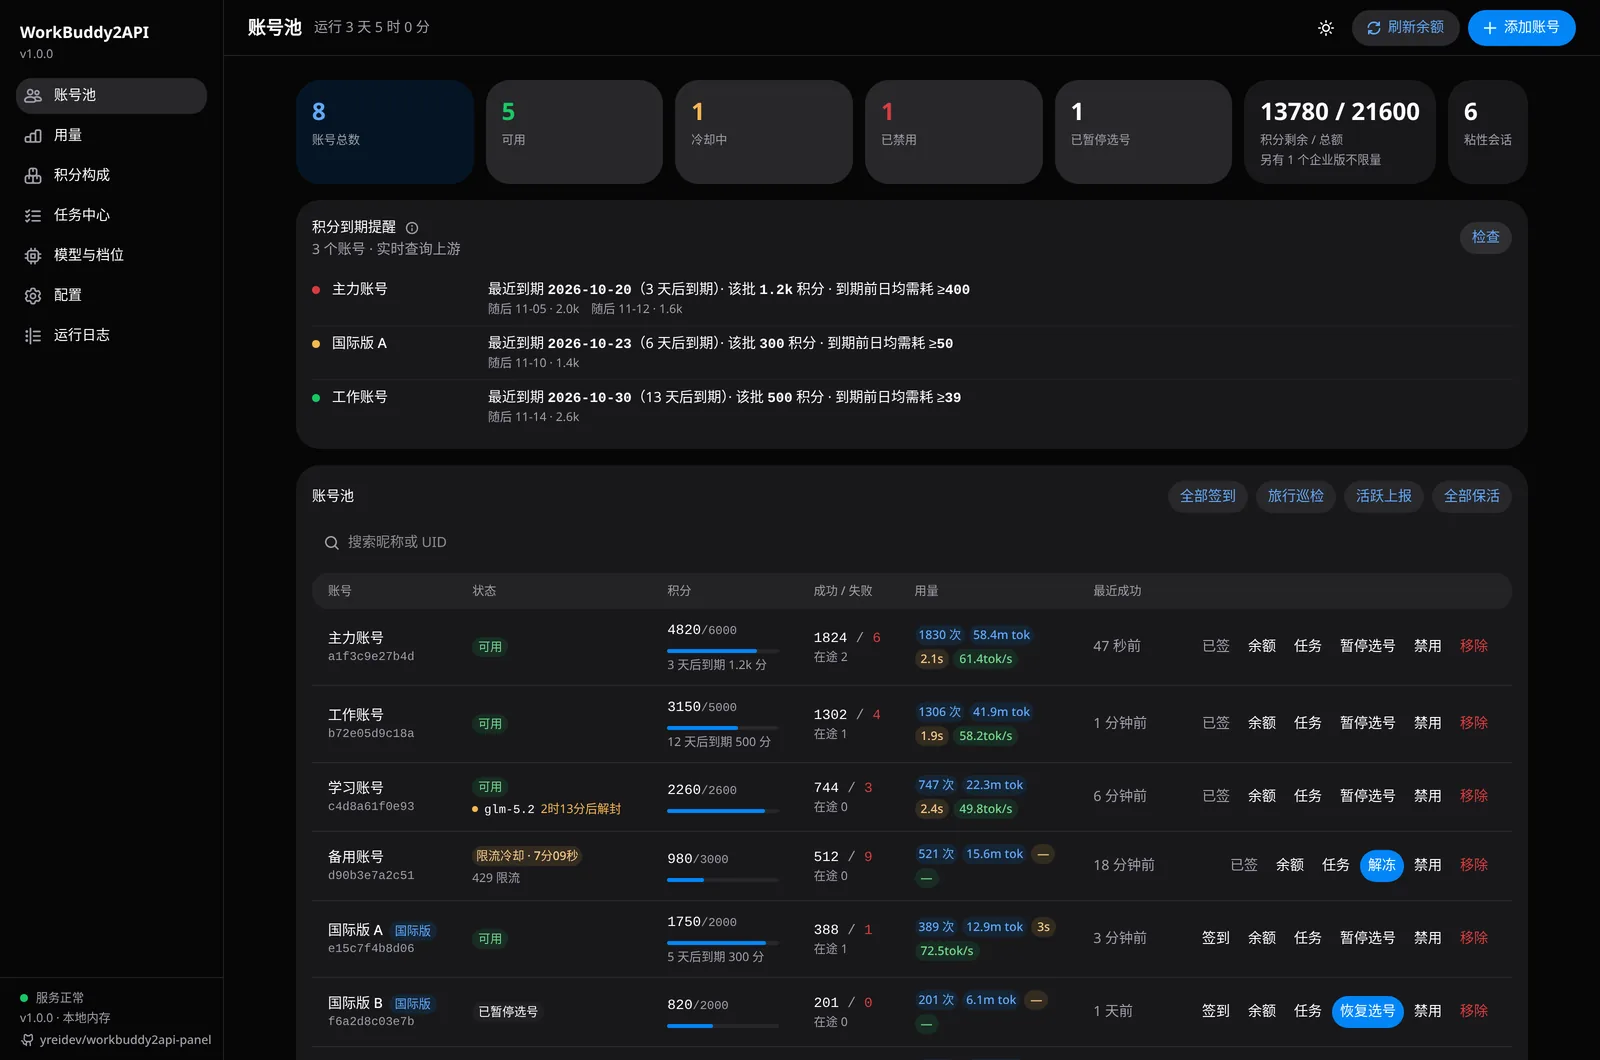
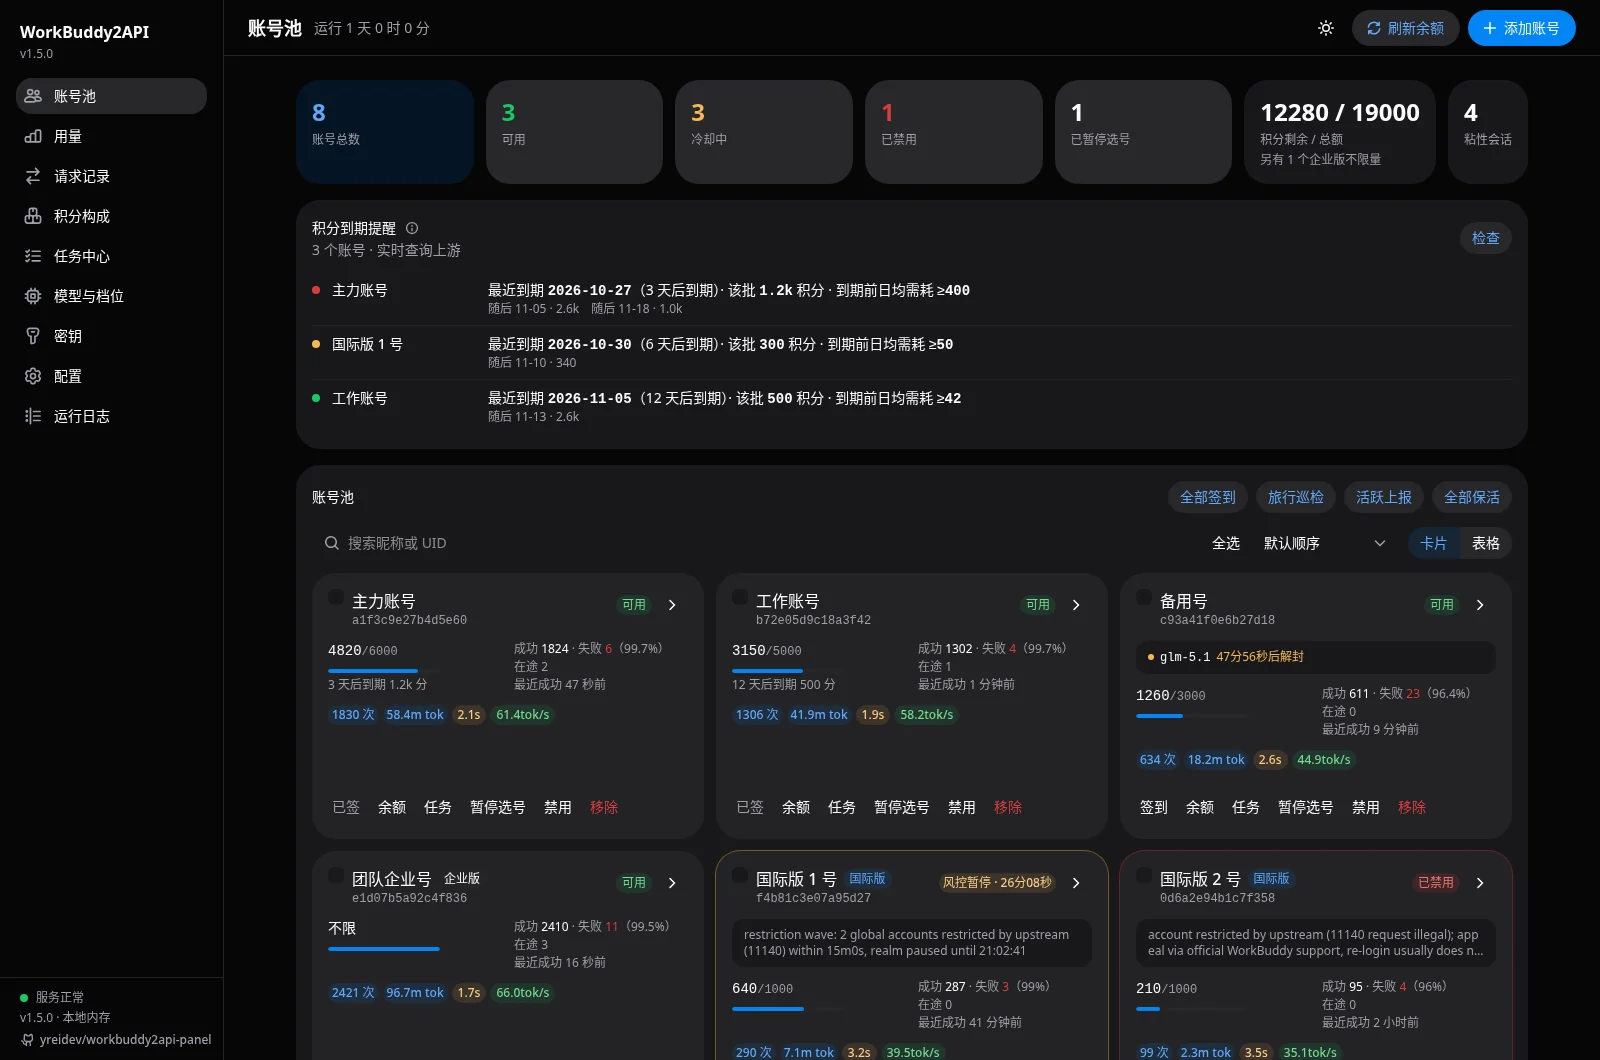
feat(panel): 账号池宽屏默认显示卡片，可切回表格
账号多的时候表格一行塞太多列，状态和冷却原因不好扫。卡片放得下几列就排几列（每张至少 340px），冷却中的卡片描橙边、禁用的描红边，冷却原因和被限额的模型单独列出，右上角箭头看详情。卡片网格的排法参考 CLI Proxy API 管理面板的认证文件卡片。

搜索框那一行可以在「卡片 / 表格」之间切换，选了哪种记在本浏览器；卡片没有表头，用下拉排序（积分、失败数、最近成功、名称），手机端也能排了；卡片模式另有「全选」。首页和文档的账号池截图按卡片重拍，用的是假数据。

diff --git a/web/src/pages/accounts/AccountsPage.tsx b/web/src/pages/accounts/AccountsPage.tsx
@@ -2,20 +2,24 @@
 // SPDX-License-Identifier: AGPL-3.0-only
 // 复制或改写本文件须保留以上声明，并按 NOTICE 的署名条款注明出处：https://github.com/yreidev/workbuddy2api-panel
 
-// 账号池：统计（点一下按状态筛选）+ 积分到期提醒 + 搜索 + 账号表（可排序，点行看详情，可多选导出凭证）+ 批量任务 + 模型锁池。窄屏把表格换成卡片列表。
+// 账号池：统计（点一下按状态筛选）+ 积分到期提醒 + 搜索 + 账号卡片或账号表（可排序，可多选导出凭证）+ 批量任务 + 模型锁池。
+// 宽屏默认卡片网格，可切换成表格（记在本浏览器）；窄屏只有卡片。
 import { useMemo, useState } from 'react'
 import {
-  Button, Card, Checkbox, SearchField, Table, ToggleButton, ToggleButtonGroup, useMediaQuery, type Selection, type SortDescriptor,
+  Button, Card, Checkbox, Label, ListBox, SearchField, Select, Table, ToggleButton, ToggleButtonGroup, useMediaQuery, type Selection, type SortDescriptor,
 } from '@heroui/react'
-import { accountHealth, filterAccounts, poolCredits, sortAccounts, type AccountSortKey, type StatusFilter } from '../../lib/accounts'
+import {
+  accountHealth, CARD_SORT_OPTIONS, cardSortKey, filterAccounts, parseCardSort, poolCredits, sortAccounts, type AccountSortKey, type StatusFilter,
+} from '../../lib/accounts'
 import { post } from '../../lib/api'
 import { ago } from '../../lib/format'
-import { toastError, useNow, useStartedToast } from '../../lib/hooks'
+import { toastError, useNow, useStartedToast, useStoredChoice } from '../../lib/hooks'
 import { useOverview } from '../../lib/queries'
 import type { Account, Overview } from '../../lib/types'
 import { Empty, Loaded } from '../../components/Feedback'
 import { Panel, Stat } from '../../components/Panel'
 import { AccountButtons } from './AccountButtons'
+import { AccountCard } from './AccountCard'
 import { AccountName, CreditsCell, StatusCell, UsageChips } from './AccountCells'
 import { AccountDrawer } from './AccountDrawer'
 import { ExpiryReminder } from './ExpiryReminder'
@@ -33,6 +37,8 @@ export function AccountsPage() {
   )
 }
 
+const VIEWS = ['cards', 'table'] as const
+
 const BATCH: { path: string; label: string; done: string }[] = [
   { path: 'checkin_all', label: '全部签到', done: '全部签到已开始' },
   { path: 'travel_all', label: '旅行巡检', done: '旅行巡检已开始（含领养链路）' },
@@ -46,6 +52,9 @@ function Accounts({ data, fetchedAt }: { data: Overview; fetchedAt: number }) {
   const [status, setStatus] = useState<StatusFilter>('all')
   const [q, setQ] = useState('')
   const [sort, setSort] = useState<SortDescriptor | undefined>()
+  const [view, setView] = useStoredChoice('wb2api.accountsView', VIEWS, 'cards')
+  // 表格最小宽 1140px，窄屏放不下，只给卡片
+  const cards = !isDesktop || view === 'cards'
   const [detail, setDetail] = useState<string | null>(null)
   const [tasksOf, setTasksOf] = useState<string | null>(null)
   const { busy, run, confirmEl } = useAccountActions(setTasksOf)
@@ -125,11 +134,10 @@ function Accounts({ data, fetchedAt }: { data: Overview; fetchedAt: number }) {
               <SearchField.ClearButton />
             </SearchField.Group>
           </SearchField>
-          {isDesktop ? (
-            selected.length > 0 && <div className="flex items-center gap-3"><ExportActions selected={selected} onClear={clearSelection} /></div>
-          ) : (
-            // 窄屏卡片没有表头复选框，在这里给「全选」
-            rows.length > 0 && (
+          <div className="flex flex-wrap items-center gap-3">
+            {isDesktop && selected.length > 0 && <ExportActions selected={selected} onClear={clearSelection} />}
+            {/* 卡片没有表头复选框和可点的表头，在这里给「全选」和排序 */}
+            {cards && rows.length > 0 && (
               <SelectionCheckbox
                 label="全选"
                 isSelected={selected.length === rows.length}
@@ -138,44 +146,59 @@ function Accounts({ data, fetchedAt }: { data: Overview; fetchedAt: number }) {
               >
                 <span className="text-sm">全选</span>
               </SelectionCheckbox>
-            )
-          )}
+            )}
+            {cards && (
+              <Select aria-label="排序" value={cardSortKey(sort)} onChange={(k) => k != null && setSort(parseCardSort(String(k)))} className="w-36">
+                <Label className="sr-only">排序</Label>
+                <Select.Trigger><Select.Value /><Select.Indicator /></Select.Trigger>
+                <Select.Popover>
+                  <ListBox>
+                    {CARD_SORT_OPTIONS.map((o) => <ListBox.Item key={o.id} id={o.id} textValue={o.label}>{o.label}<ListBox.ItemIndicator /></ListBox.Item>)}
+                  </ListBox>
+                </Select.Popover>
+              </Select>
+            )}
+            {isDesktop && (
+              <ToggleButtonGroup
+                aria-label="显示方式"
+                size="sm"
+                selectionMode="single"
+                disallowEmptySelection
+                selectedKeys={[view]}
+                onSelectionChange={(keys) => { const k = [...keys][0]; if (k === 'cards' || k === 'table') setView(k) }}
+              >
+                <ToggleButton id="cards">卡片</ToggleButton>
+                <ToggleButton id="table">表格</ToggleButton>
+              </ToggleButtonGroup>
+            )}
+          </div>
         </div>
         {accounts.length === 0 ? (
           <Empty title="账号池是空的">点击右上角「添加账号」，用浏览器登录一个 WorkBuddy 账号。</Empty>
         ) : rows.length === 0 ? (
           <Empty title="没有符合条件的账号" action={<Button size="sm" variant="secondary" onPress={() => { setQ(''); setStatus('all') }}>清除筛选</Button>} />
-        ) : isDesktop ? (
+        ) : !cards ? (
           <AccountTable rows={rows} fetchedAt={fetchedAt} now={now} poolMax={poolMax} sort={sort} onSort={setSort} selection={selection} onSelect={setSelection} busy={busy} run={run} onOpen={setDetail} />
         ) : (
-          <div className="flex flex-col gap-3">
-            {rows.map((a) => {
-              const health = accountHealth(a, fetchedAt)
-              return (
-                <Card key={a.uid} variant="secondary" className="gap-3 p-4">
-                  <div className="flex items-start justify-between gap-2">
-                    <div className="flex min-w-0 items-start gap-2">
-                      <SelectionCheckbox label={'选择 ' + (a.nickname || a.uid)} isSelected={selected.includes(a.uid)} onChange={(v) => toggle(a.uid, v)} />
-                      <AccountName a={a} />
-                    </div>
-                    <Button size="sm" variant="tertiary" onPress={() => setDetail(a.uid)}>详情</Button>
-                  </div>
-                  <StatusCell a={a} health={health} now={now} />
-                  <div className="grid grid-cols-2 gap-3 text-sm">
-                    <CreditsCell a={a} poolMax={poolMax} now={now} />
-                    <div className="flex flex-col gap-0.5 text-xs text-muted">
-                      <span>成功 {a.success_count || 0} · 失败 <span className="text-danger">{a.err_total || 0}</span></span>
-                      <span>在途 {a.in_flight || 0}</span>
-                      <span>最近成功 {ago(a.last_success, now)}</span>
-                    </div>
-                  </div>
-                  <UsageChips a={a} />
-                  <AccountButtons a={a} health={health} busy={busy} run={run} />
-                </Card>
-              )
-            })}
-            {selected.length > 0 && (
-              <Card className="sticky bottom-3 z-30 flex-row flex-wrap items-center gap-3 p-3 shadow-lg">
+          // 卡片至少 340px 宽，放得下几列就排几列
+          <div className="grid gap-3 [grid-template-columns:repeat(auto-fill,minmax(min(100%,340px),1fr))]">
+            {rows.map((a) => (
+              <AccountCard
+                key={a.uid}
+                a={a}
+                health={accountHealth(a, fetchedAt)}
+                now={now}
+                poolMax={poolMax}
+                selected={selected.includes(a.uid)}
+                onSelect={(v) => toggle(a.uid, v)}
+                onOpen={() => setDetail(a.uid)}
+                busy={busy}
+                run={run}
+              />
+            ))}
+            {/* 宽屏的导出按钮在搜索框那一行，窄屏滚动时贴在底部 */}
+            {!isDesktop && selected.length > 0 && (
+              <Card className="sticky bottom-3 z-30 col-span-full flex-row flex-wrap items-center gap-3 p-3 shadow-lg">
                 <ExportActions selected={selected} onClear={clearSelection} />
               </Card>
             )}

diff --git a/web/src/pages/accounts/AccountCard.tsx b/web/src/pages/accounts/AccountCard.tsx
@@ -1,0 +1,82 @@
+// SPDX-FileCopyrightText: 2026 yreidev 与贡献者（见 NOTICE）
+// SPDX-License-Identifier: AGPL-3.0-only
+// 复制或改写本文件须保留以上声明，并按 NOTICE 的署名条款注明出处：https://github.com/yreidev/workbuddy2api-panel
+
+// 账号卡片：宽屏的卡片网格和窄屏列表共用。边框按状态着色（冷却橙、禁用红），右上角箭头看详情。
+import { ChevronRight } from '@gravity-ui/icons'
+import { Button, Card, Separator, Surface } from '@heroui/react'
+import { activeRateLimits, type Health } from '../../lib/accounts'
+import { ago } from '../../lib/format'
+import type { Account } from '../../lib/types'
+import { AccountButtons } from './AccountButtons'
+import { AccountName, CreditsCell, HealthChip, RateLimitList, UsageChips } from './AccountCells'
+import { SelectionCheckbox } from './ExportBar'
+import type { AccountAction } from './useAccountActions'
+
+const RING: Record<Health['state'], string> = {
+  ok: '',
+  cooling: 'ring-1 ring-warning/40',
+  paused: 'ring-1 ring-border',
+  disabled: 'ring-1 ring-danger/40',
+}
+
+/** 成功率（一位小数）；还没有请求时返回 null */
+const successRate = (ok: number, fail: number) => (ok + fail > 0 ? Math.round((ok / (ok + fail)) * 1000) / 10 : null)
+
+export function AccountCard({ a, health, now, poolMax, selected, onSelect, onOpen, busy, run }: {
+  a: Account
+  health: Health
+  now: number
+  poolMax: number
+  selected: boolean
+  onSelect: (on: boolean) => void
+  onOpen: () => void
+  busy: string | null
+  run: (a: Account, action: AccountAction) => void
+}) {
+  const ok = a.success_count || 0
+  const fail = a.err_total || 0
+  const rate = successRate(ok, fail)
+  return (
+    <Card variant="secondary" className={`gap-3 p-4 ${RING[health.state]}`}>
+      <div className="flex items-start justify-between gap-2">
+        <div className="flex min-w-0 items-start gap-2">
+          <SelectionCheckbox label={'选择 ' + (a.nickname || a.uid)} isSelected={selected} onChange={onSelect} />
+          <AccountName a={a} />
+        </div>
+        <div className="flex shrink-0 items-center gap-1">
+          <HealthChip health={health} now={now} />
+          <Button isIconOnly size="sm" variant="ghost" aria-label="详情" onPress={onOpen}><ChevronRight /></Button>
+        </div>
+      </div>
+
+      {(a.reason || activeRateLimits(a).length > 0) && (
+        <Surface className="flex flex-col gap-1 rounded-xl px-3 py-2">
+          {a.reason && <span className="line-clamp-2 break-all text-xs text-muted">{a.reason}</span>}
+          <RateLimitList a={a} now={now} />
+        </Surface>
+      )}
+
+      <div className="grid grid-cols-2 gap-3 text-sm">
+        <CreditsCell a={a} poolMax={poolMax} now={now} />
+        <div className="flex flex-col gap-0.5 text-xs text-muted">
+          <span>
+            成功 <span className="tabular-nums text-foreground">{ok}</span> · 失败 <span className="tabular-nums text-danger">{fail}</span>
+            {rate != null && <>（{rate}%）</>}
+          </span>
+          <span>在途 {a.in_flight || 0}</span>
+          <span>最近成功 {ago(a.last_success, now)}</span>
+        </div>
+      </div>
+
+      <UsageChips a={a} />
+
+      <div className="mt-auto flex flex-col gap-2">
+        <Separator />
+        <div className="-mx-1">
+          <AccountButtons a={a} health={health} busy={busy} run={run} compact />
+        </div>
+      </div>
+    </Card>
+  )
+}

diff --git a/web/src/pages/accounts/AccountButtons.tsx b/web/src/pages/accounts/AccountButtons.tsx
@@ -14,11 +14,13 @@ import type { AccountAction } from './useAccountActions'
  * 不给「签到」「任务」，「余额」改叫「额度」（刷新分配给这个号的企业额度）。
  * 国际版没有签到活动（上游 400「签到活动未开启或已过期」），也不给「签到」。
  */
-export function AccountButtons({ a, health, busy, run, nowrap, extra }: {
+export function AccountButtons({ a, health, busy, run, nowrap, compact, extra }: {
   a: Account
   health: Health
   /** 表格里一行放下，不折行（卡片和抽屉里允许折行） */
   nowrap?: boolean
+  /** 按钮收紧间距（卡片用），放不下照样折行 */
+  compact?: boolean
   /** 额外按钮（如抽屉里的「导出凭证」），放在「移除」之前，让危险操作留在最后 */
   extra?: ReactNode
   busy: string | null
@@ -29,7 +31,7 @@ export function AccountButtons({ a, health, busy, run, nowrap, extra }: {
       size="sm"
       variant={opts.variant ?? 'ghost'}
       aria-label={opts.ariaLabel}
-      className={`${nowrap ? 'px-2' : ''} ${opts.className ?? ''}`}
+      className={`${nowrap || compact ? 'px-2' : ''} ${opts.className ?? ''}`}
       isPending={busy === a.uid + ':' + action}
       onPress={() => run(a, action)}
     >
@@ -37,7 +39,7 @@ export function AccountButtons({ a, health, busy, run, nowrap, extra }: {
     </Button>
   )
   return (
-    <div className={`flex items-center ${nowrap ? 'flex-nowrap gap-0.5' : 'flex-wrap gap-1'}`}>
+    <div className={`flex items-center ${nowrap ? 'flex-nowrap gap-0.5' : compact ? 'flex-wrap gap-0.5' : 'flex-wrap gap-1'}`}>
       {/* 今日已签仍可点：重新签到会顺带刷新余额 */}
       {!a.enterprise && a.realm !== 'global' && (a.checkin_done ? btn('checkin', '已签', { className: 'text-muted', ariaLabel: '今日已签到，点击重新签到并刷新余额' }) : btn('checkin', '签到'))}
       {a.enterprise ? btn('balance', '额度', { ariaLabel: '刷新企业版分配额度' }) : btn('balance', '余额')}

diff --git a/web/src/lib/accounts.ts b/web/src/lib/accounts.ts
@@ -120,6 +120,34 @@ export function creditPercent(a: Account, poolMax: number): number {
 
 export type AccountSortKey = 'name' | 'credits' | 'errors' | 'last_success'
 
+export type AccountSortDirection = 'ascending' | 'descending'
+
+/** 卡片视图的排序选项：卡片没有表头可点，用下拉选；值是「排序键:方向」，default = 接口返回的原顺序 */
+export const CARD_SORT_OPTIONS: { id: string; label: string }[] = [
+  { id: 'default', label: '默认顺序' },
+  { id: 'credits:descending', label: '积分从多到少' },
+  { id: 'credits:ascending', label: '积分从少到多' },
+  { id: 'errors:descending', label: '失败从多到少' },
+  { id: 'errors:ascending', label: '失败从少到多' },
+  { id: 'last_success:descending', label: '最近成功在前' },
+  { id: 'last_success:ascending', label: '最久没成功在前' },
+  { id: 'name:ascending', label: '名称 A→Z' },
+  { id: 'name:descending', label: '名称 Z→A' },
+]
+
+/** 表格的排序状态 → 卡片下拉的选项 id（表格、卡片共用一份排序状态，切换视图时排序不丢） */
+export function cardSortKey(sort: { column?: string | number; direction?: string } | undefined): string {
+  const id = sort?.column != null ? `${sort.column}:${sort.direction ?? 'ascending'}` : 'default'
+  return CARD_SORT_OPTIONS.some((o) => o.id === id) ? id : 'default'
+}
+
+/** 卡片下拉的选项 id → 排序状态；default 或不认识的 id 返回 undefined（不排序） */
+export function parseCardSort(id: string): { column: AccountSortKey; direction: AccountSortDirection } | undefined {
+  if (!CARD_SORT_OPTIONS.some((o) => o.id === id) || id === 'default') return undefined
+  const [column, direction] = id.split(':') as [AccountSortKey, AccountSortDirection]
+  return { column, direction }
+}
+
 export function filterAccounts(list: Account[], fetchedAt: number, status: StatusFilter, q: string): Account[] {
   const kw = q.trim().toLowerCase()
   return list.filter((a) => {

diff --git a/web/src/lib/accounts.test.ts b/web/src/lib/accounts.test.ts
@@ -4,7 +4,8 @@
 
 import { describe, expect, it } from 'vitest'
 import {
-  accountHealth, activeRateLimits, creditPercent, creditsText, filterAccounts, isFrozen, poolCredits, rateLimitInfo, sortAccounts,
+  accountHealth, activeRateLimits, cardSortKey, creditPercent, creditsText, filterAccounts, isFrozen, parseCardSort, poolCredits, rateLimitInfo,
+  sortAccounts,
 } from './accounts'
 import type { Account } from './types'
 
@@ -78,6 +79,17 @@ describe('账号表辅助', () => {
 
 // 从上游 internal/panel/frontend_test.go 的 TestAppJSRateLimitMeta 平移（期望值原样保留）：
 // 同时支持上游 reset_at、网关 until 和两者都没有三种形态，以及模型不可用。
+describe('卡片排序', () => {
+  it('表格排序状态与卡片下拉互转', () => {
+    expect(cardSortKey(undefined)).toBe('default')
+    expect(cardSortKey({ column: 'credits', direction: 'descending' })).toBe('credits:descending')
+    expect(cardSortKey({ column: 'nope', direction: 'descending' })).toBe('default')
+    expect(parseCardSort('credits:descending')).toEqual({ column: 'credits', direction: 'descending' })
+    expect(parseCardSort('default')).toBeUndefined()
+    expect(parseCardSort('credits:sideways')).toBeUndefined()
+  })
+})
+
 describe('rateLimitInfo', () => {
   const t = (h: number) => new Date(2026, 8, 28, h, 0, 0).getTime()
   const at = t(14)

diff --git a/web/src/pages/accounts/AccountCells.tsx b/web/src/pages/accounts/AccountCells.tsx
@@ -2,7 +2,7 @@
 // SPDX-License-Identifier: AGPL-3.0-only
 // 复制或改写本文件须保留以上声明，并按 NOTICE 的署名条款注明出处：https://github.com/yreidev/workbuddy2api-panel
 
-// 账号的各个展示单元（名称、状态、积分、用量），账号表、手机卡片、详情抽屉共用。
+// 账号的各个展示单元（名称、状态、积分、用量），账号表、账号卡片、详情抽屉共用。
 import { Chip, ProgressBar } from '@heroui/react'
 import { activeRateLimits, creditPercent, isUnlimited, rateLimitInfo, type Health } from '../../lib/accounts'
 import { dur, formatLatency, formatRate, formatTokenCount, fmtTok, timeMs, until } from '../../lib/format'

diff --git a/docs/panel.md b/docs/panel.md
@@ -19,7 +19,7 @@
 
 | 视图 | 能做什么 |
 |---|---|
-| **账号池** | 统计卡：总数 / 可用 / 冷却 / 禁用 / 暂停，点一下即按状态筛选；另有积分合计与粘性会话数。<br>积分到期提醒：打开就列出每个账号最早一批要过期的积分，以及到期前日均至少要用掉多少（本地快照，不查上游）；点「检查」逐账号向上游查询，看到全部到期批次。<br>账号表：状态与冷却倒计时、被限额的模型及解封时间、积分量条与最早到期、成功 / 失败 / 在途、用量与速率。<br>单号操作：签到、余额、任务、解冻、暂停选号、禁用、移除。<br>批量操作：全部签到、旅行巡检、活跃上报、全部保活。<br>导出凭证：勾选账号（表头勾选框 = 当前筛选结果全选，手机端在搜索框旁「全选」）后点「导出凭证」，下载一个 JSON 文件；单个账号在详情里导出。<br>模型锁池：哪些模型被上游按模型限额、还剩几个号可用、多久后解锁。 |
+| **账号池** | 统计卡：总数 / 可用 / 冷却 / 禁用 / 暂停，点一下即按状态筛选；另有积分合计与粘性会话数。<br>积分到期提醒：打开就列出每个账号最早一批要过期的积分，以及到期前日均至少要用掉多少（本地快照，不查上游）；点「检查」逐账号向上游查询，看到全部到期批次。<br>账号卡片：状态与冷却倒计时（风控暂停、积分冷却等分开标出，冷却的卡片描橙边、禁用的描红边）、冷却原因和被限额的模型及解封时间、积分量条与最早到期、成功 / 失败 / 成功率 / 在途、用量与速率；右上角箭头看详情。宽屏可以在「卡片 / 表格」之间切换，选了哪种记在本浏览器；卡片视图用旁边的下拉排序，表格点表头排序。<br>单号操作：签到、余额、任务、解冻、暂停选号、禁用、移除。<br>批量操作：全部签到、旅行巡检、活跃上报、全部保活。<br>导出凭证：勾选账号（搜索框旁的「全选」或表格的表头勾选框 = 当前筛选结果全选）后点「导出凭证」，下载一个 JSON 文件；单个账号在详情里导出。<br>模型锁池：哪些模型被上游按模型限额、还剩几个号可用、多久后解锁。 |
 | **账号详情**（点账号行） | 模型限额台账、每个模型的实测单价、最早到期批次、连败与熔断计数、最近一次请求的模型与耗时；可单独导出这个号的凭证 |
 | **添加账号** | 浏览器内完成国内版 / 国际版 OAuth 登录，凭证落盘并热加载进池，不用重启；国际版会自动完成注册地区、激活与试用额度领取。也可导入 JSON：账号池导出的凭证（单个或批量），或 cockpit tools 导出的账号 |
 | **用量** | 请求数、token 构成、失败率、平均延迟与吐字速率；按小时的 token 时序图；按账号 / 模型 / 域 / 密钥的用量明细；积分扣除历史（每百万 token 积分、前缀缓存命中率）。建过客户端密钥后可以按密钥筛，整页只算这个密钥的请求 |
